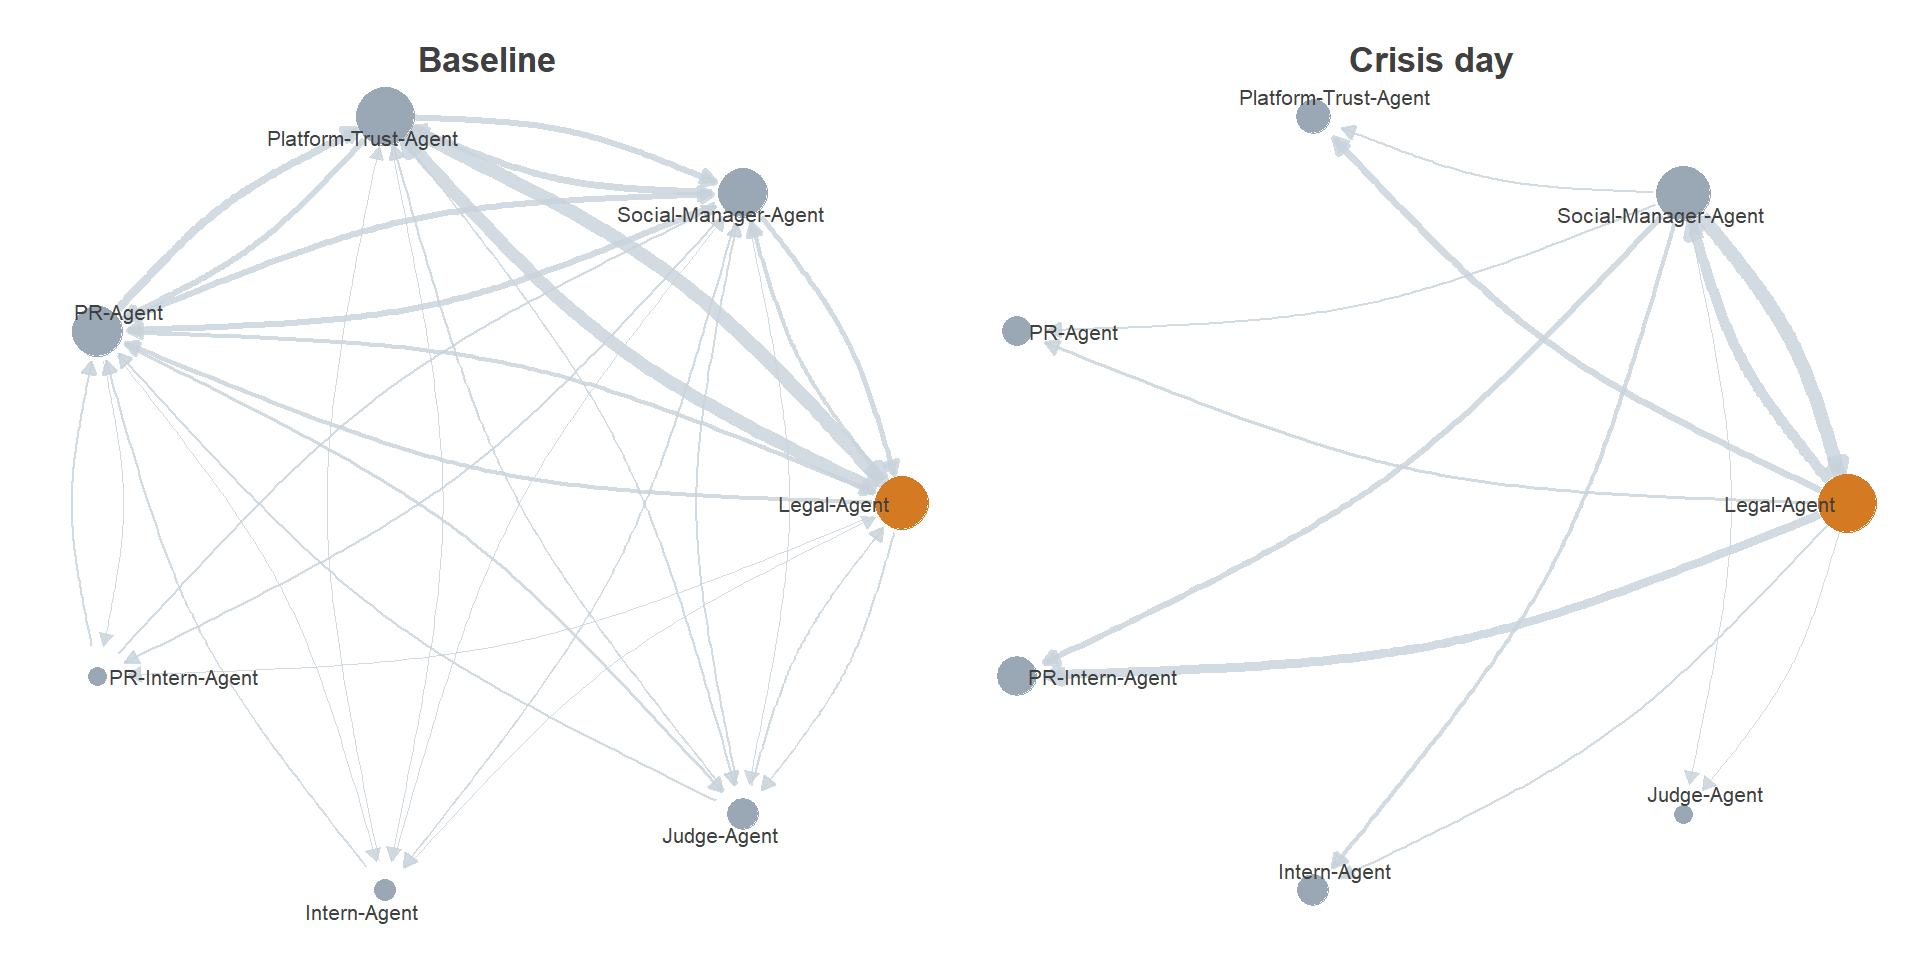
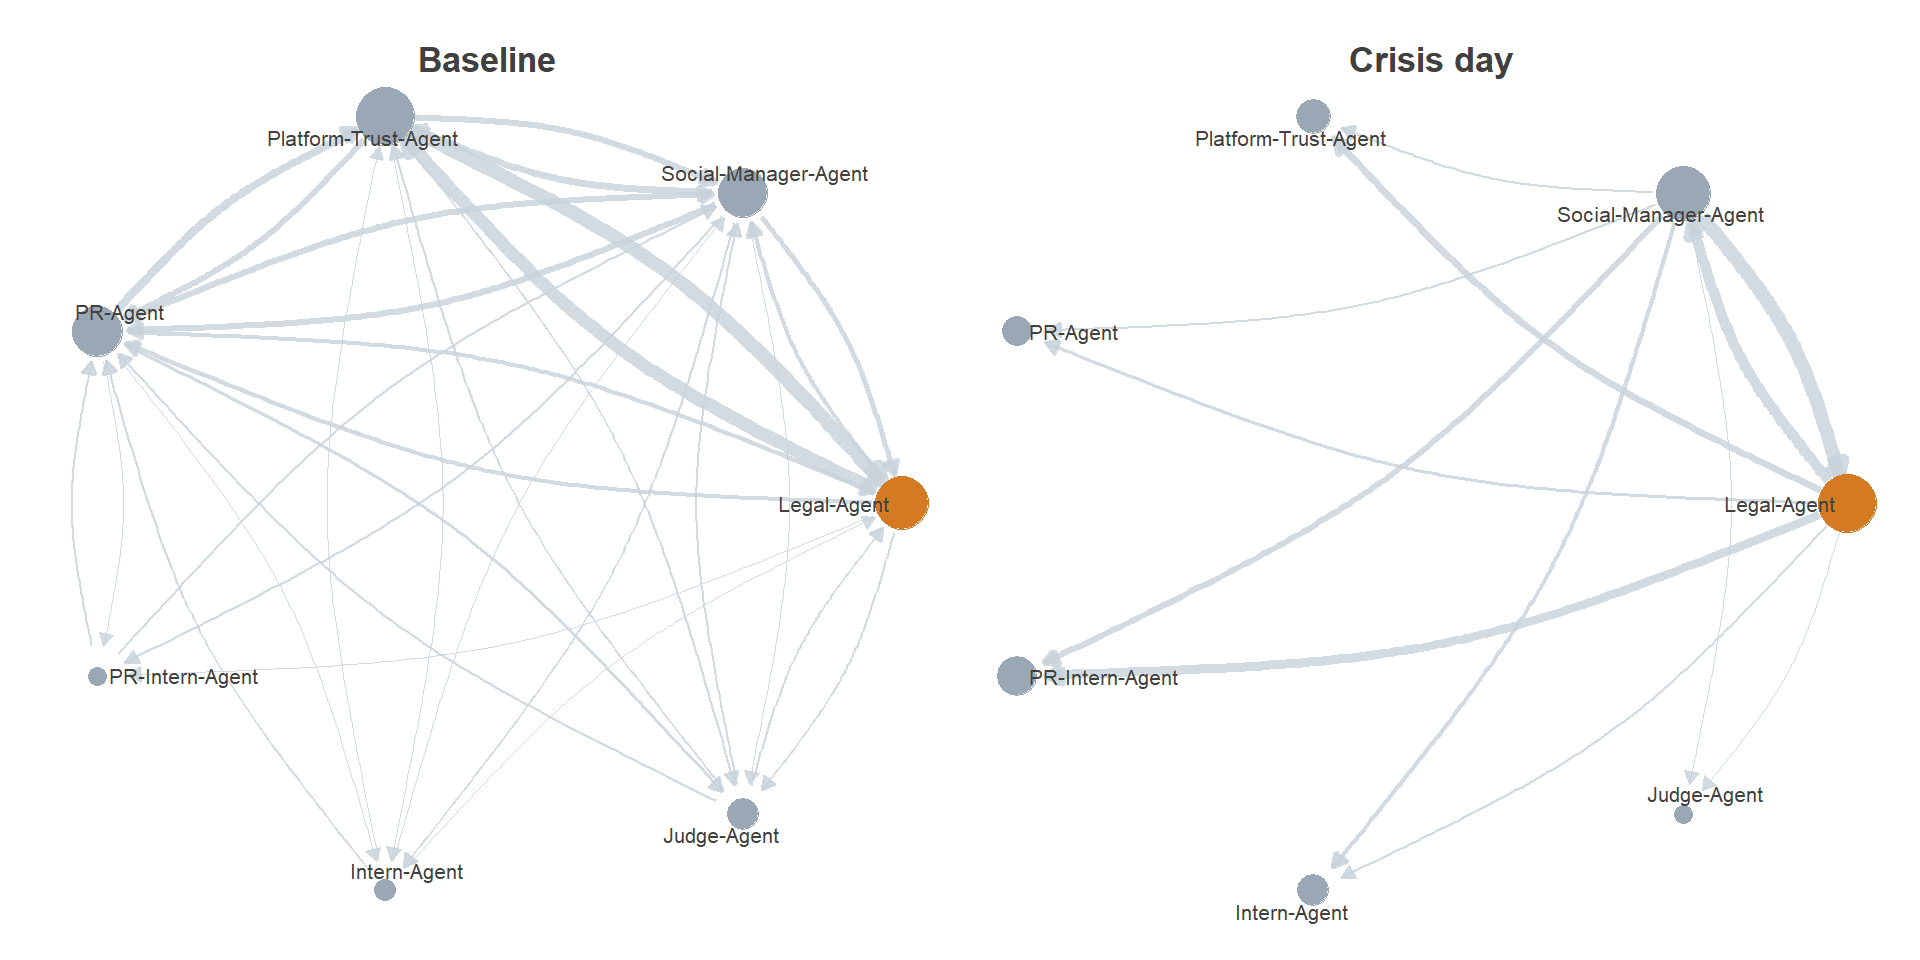
commit 1818 28 jun 26 (AMK)

diff --git a/_site/about.html b/_site/about.html
@@ -179,7 +179,7 @@ pre > code.sourceCode > span > a:first-child::before { text-decoration: underlin
  <span class="dropdown-text"><i class="fa-solid fa-book" aria-label="book"></i> User Guide</span></a>
   </li>  
         <li>
-    <a class="dropdown-item" href="https://isss608amk.shinyapps.io/isss608-finalproject/">
+    <a class="dropdown-item" href="https://isss608amk.shinyapps.io/isss608-final-project-ajp/">
  <span class="dropdown-text"><i class="fa-solid fa-rocket" aria-label="rocket"></i> Shiny App</span></a>
   </li>  
     </ul>

diff --git a/_site/data/mc1 data description.html b/_site/data/mc1 data description.html
@@ -179,7 +179,7 @@ pre > code.sourceCode > span > a:first-child::before { text-decoration: underlin
  <span class="dropdown-text"><i class="fa-solid fa-book" aria-label="book"></i> User Guide</span></a>
   </li>  
         <li>
-    <a class="dropdown-item" href="https://isss608amk.shinyapps.io/isss608-finalproject/">
+    <a class="dropdown-item" href="https://isss608amk.shinyapps.io/isss608-final-project-ajp/">
  <span class="dropdown-text"><i class="fa-solid fa-rocket" aria-label="rocket"></i> Shiny App</span></a>
   </li>  
     </ul>

diff --git a/_site/findings.html b/_site/findings.html
@@ -179,7 +179,7 @@ pre > code.sourceCode > span > a:first-child::before { text-decoration: underlin
  <span class="dropdown-text"><i class="fa-solid fa-book" aria-label="book"></i> User Guide</span></a>
   </li>  
         <li>
-    <a class="dropdown-item" href="https://isss608amk.shinyapps.io/isss608-finalproject/">
+    <a class="dropdown-item" href="https://isss608amk.shinyapps.io/isss608-final-project-ajp/">
  <span class="dropdown-text"><i class="fa-solid fa-rocket" aria-label="rocket"></i> Shiny App</span></a>
   </li>  
     </ul>

diff --git a/_site/index.html b/_site/index.html
@@ -179,7 +179,7 @@ pre > code.sourceCode > span > a:first-child::before { text-decoration: underlin
  <span class="dropdown-text"><i class="fa-solid fa-book" aria-label="book"></i> User Guide</span></a>
   </li>  
         <li>
-    <a class="dropdown-item" href="https://isss608amk.shinyapps.io/isss608-finalproject/">
+    <a class="dropdown-item" href="https://isss608amk.shinyapps.io/isss608-final-project-ajp/">
  <span class="dropdown-text"><i class="fa-solid fa-rocket" aria-label="rocket"></i> Shiny App</span></a>
   </li>  
     </ul>

diff --git a/_site/meeting_minutes.html b/_site/meeting_minutes.html
@@ -179,7 +179,7 @@ pre > code.sourceCode > span > a:first-child::before { text-decoration: underlin
  <span class="dropdown-text"><i class="fa-solid fa-book" aria-label="book"></i> User Guide</span></a>
   </li>  
         <li>
-    <a class="dropdown-item" href="https://isss608amk.shinyapps.io/isss608-finalproject/">
+    <a class="dropdown-item" href="https://isss608amk.shinyapps.io/isss608-final-project-ajp/">
  <span class="dropdown-text"><i class="fa-solid fa-rocket" aria-label="rocket"></i> Shiny App</span></a>
   </li>  
     </ul>

diff --git a/_site/methodology/data_exploration/data_exploration.html b/_site/methodology/data_exploration/data_exploration.html
@@ -179,7 +179,7 @@ pre > code.sourceCode > span > a:first-child::before { text-decoration: underlin
  <span class="dropdown-text"><i class="fa-solid fa-book" aria-label="book"></i> User Guide</span></a>
   </li>  
         <li>
-    <a class="dropdown-item" href="https://isss608amk.shinyapps.io/isss608-finalproject/">
+    <a class="dropdown-item" href="https://isss608amk.shinyapps.io/isss608-final-project-ajp/">
  <span class="dropdown-text"><i class="fa-solid fa-rocket" aria-label="rocket"></i> Shiny App</span></a>
   </li>  
     </ul>

diff --git a/_site/methodology/data_preparation/data_preparation.html b/_site/methodology/data_preparation/data_preparation.html
@@ -179,7 +179,7 @@ pre > code.sourceCode > span > a:first-child::before { text-decoration: underlin
  <span class="dropdown-text"><i class="fa-solid fa-book" aria-label="book"></i> User Guide</span></a>
   </li>  
         <li>
-    <a class="dropdown-item" href="https://isss608amk.shinyapps.io/isss608-finalproject/">
+    <a class="dropdown-item" href="https://isss608amk.shinyapps.io/isss608-final-project-ajp/">
  <span class="dropdown-text"><i class="fa-solid fa-rocket" aria-label="rocket"></i> Shiny App</span></a>
   </li>  
     </ul>

diff --git a/_site/methodology/statistical_analysis/statistical_analysis.html b/_site/methodology/statistical_analysis/statistical_analysis.html
@@ -179,7 +179,7 @@ pre > code.sourceCode > span > a:first-child::before { text-decoration: underlin
  <span class="dropdown-text"><i class="fa-solid fa-book" aria-label="book"></i> User Guide</span></a>
   </li>  
         <li>
-    <a class="dropdown-item" href="https://isss608amk.shinyapps.io/isss608-finalproject/">
+    <a class="dropdown-item" href="https://isss608amk.shinyapps.io/isss608-final-project-ajp/">
  <span class="dropdown-text"><i class="fa-solid fa-rocket" aria-label="rocket"></i> Shiny App</span></a>
   </li>  
     </ul>

diff --git a/_site/poster.html b/_site/poster.html
@@ -179,7 +179,7 @@ pre > code.sourceCode > span > a:first-child::before { text-decoration: underlin
  <span class="dropdown-text"><i class="fa-solid fa-book" aria-label="book"></i> User Guide</span></a>
   </li>  
         <li>
-    <a class="dropdown-item" href="https://isss608amk.shinyapps.io/isss608-finalproject/">
+    <a class="dropdown-item" href="https://isss608amk.shinyapps.io/isss608-final-project-ajp/">
  <span class="dropdown-text"><i class="fa-solid fa-rocket" aria-label="rocket"></i> Shiny App</span></a>
   </li>  
     </ul>

diff --git a/_site/proposal.html b/_site/proposal.html
@@ -182,7 +182,7 @@ pre > code.sourceCode > span > a:first-child::before { text-decoration: underlin
  <span class="dropdown-text"><i class="fa-solid fa-book" aria-label="book"></i> User Guide</span></a>
   </li>  
         <li>
-    <a class="dropdown-item" href="https://isss608amk.shinyapps.io/isss608-finalproject/">
+    <a class="dropdown-item" href="https://isss608amk.shinyapps.io/isss608-final-project-ajp/">
  <span class="dropdown-text"><i class="fa-solid fa-rocket" aria-label="rocket"></i> Shiny App</span></a>
   </li>  
     </ul>

diff --git a/_site/user_guide.html b/_site/user_guide.html
@@ -179,7 +179,7 @@ pre > code.sourceCode > span > a:first-child::before { text-decoration: underlin
  <span class="dropdown-text"><i class="fa-solid fa-book" aria-label="book"></i> User Guide</span></a>
   </li>  
         <li>
-    <a class="dropdown-item" href="https://isss608amk.shinyapps.io/isss608-finalproject/">
+    <a class="dropdown-item" href="https://isss608amk.shinyapps.io/isss608-final-project-ajp/">
  <span class="dropdown-text"><i class="fa-solid fa-rocket" aria-label="rocket"></i> Shiny App</span></a>
   </li>  
     </ul>